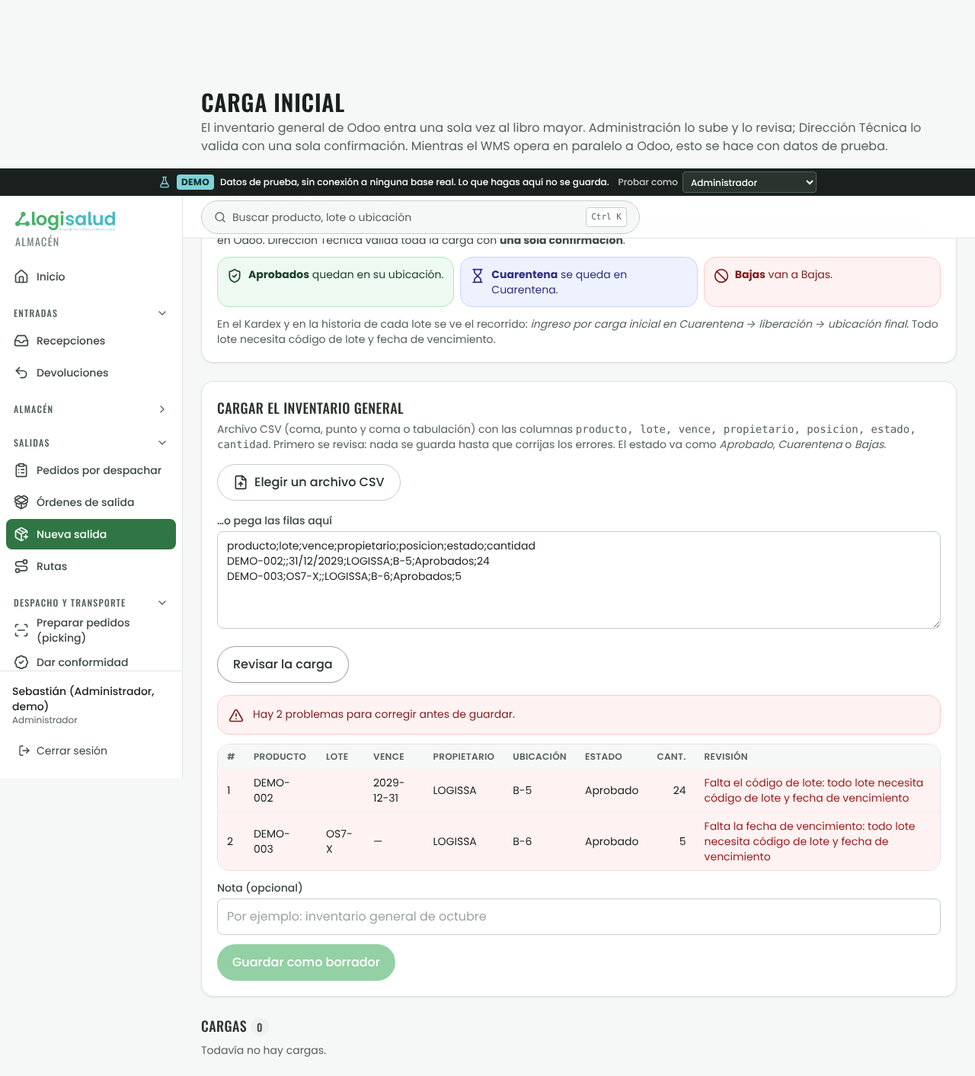
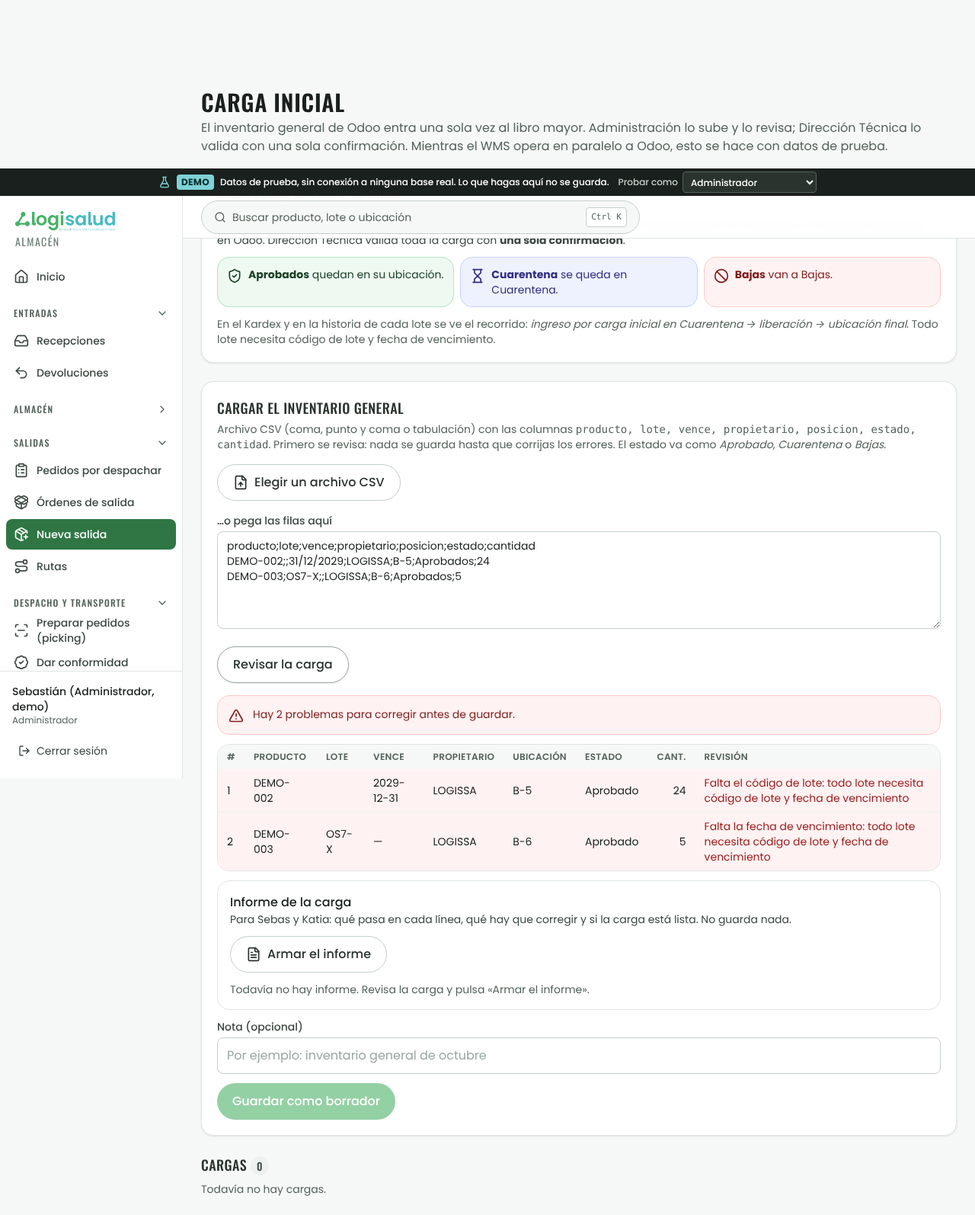
wms(piloto): hojas por rol, criterios Go/No-Go, pendientes de la ventana; paso «Registrar guía emitida», E2E y capturas
Claude-Session: https://claude.ai/code/session_019szn5FvDhUhrzDvpkCY8tq

diff --git a/apps/wms/domain/pasos.ts b/apps/wms/domain/pasos.ts
@@ -69,6 +69,8 @@ export interface ExtrasSalida {
   guiaEnEspera?: boolean
   /** Falta la guía (con la conformidad completa). */
   sinGuia?: boolean
+  /** Piloto (0036): la guía se emite en el panel de Nubefact (o en Odoo) y el WMS solo la registra. Solo la ficha de la orden lo sabe; la lista y «Mis tareas» dicen «emitir». */
+  guiaPanel?: boolean
   /** D-191: la orden ya salió, su guía se anuló y no hay otra vigente: el stock no se toca y falta emitir la guía nueva. */
   faltaGuiaVigente?: boolean
   /** SA-2: orden por cuenta de un cliente (tipo B): no lleva guía del WMS, se registra la GRE que trae el cliente. */
@@ -120,6 +122,7 @@ function siguienteDeSalida(etapa: EtapaSalida, id: string, x: ExtrasSalida): Sig
       if (x.guiaEnEspera) return { texto: 'Consultar si SUNAT ya aceptó la guía: sin eso no hay PDF ni se avisa a Pedidos', responsable: R.documentos, href: `/salidas/${id}`, boton: 'Consultar estado en SUNAT' }
       const sinDoc = etapa !== 'DOCUMENTACION_COMPLETA'
       if (sinDoc && x.tipo === 'CLIENTE') return { texto: 'Registrar la guía de remisión del cliente (su número y el PDF que adjuntó) y completar el paquete documental: el WMS no emite guía en esta orden', responsable: R.documentos, href: `/salidas/${id}`, boton: 'Registrar la GRE del cliente' }
+      if (sinDoc && x.guiaPanel) return { texto: 'Emitir la guía en el panel de Nubefact (o en Odoo), registrarla aquí con su número y completar el paquete documental', responsable: R.documentos, href: `/salidas/${id}`, boton: 'Registrar la guía emitida' }
       if (sinDoc) return { texto: 'Emitir la guía de remisión (con la ruta ya asignada) y completar el paquete documental', responsable: R.documentos, href: `/salidas/${id}`, boton: 'Emitir la guía' }
       return { texto: 'Embalar el pedido en bultos y imprimir las etiquetas', responsable: R.embalaje, href: `/embalaje/${id}`, boton: 'Ir al embalaje' }
     }

diff --git a/apps/wms/components/salidas/detalle-salida.tsx b/apps/wms/components/salidas/detalle-salida.tsx
@@ -61,7 +61,7 @@ export function DetalleSalida({ salida, puedeEditar, puedePreparar, paquete, gui
         <ChipEtapa etapa={salida.etapa} />
       </header>
 
-      <AvancePasos avance={avanceDeSalida(salida.etapa, salida.id, { sinEmbalaje: !salida.requiereEmbalaje, guiaEnEspera: paquete?.guia?.estadoSunat === 'PENDIENTE', faltaGuiaVigente: salida.faltaGuiaVigente, tipo: salida.tipo, destruccion: salida.motivo === 'DESTRUCCION', sinRuta: salida.tipo === 'CLIENTE' ? undefined : !salida.rutaNumero, porRuta: salida.origen === 'MANUAL' && salida.tipo !== 'CLIENTE', vendedor: salida.vendedor, sinPedido: salida.conPedido === false, devolucion: salida.devolucion, devolucionHref: salida.devoluciones?.find((d) => d.movimientoId)?.movimientoId ? `/movimientos/${salida.devoluciones.find((d) => d.movimientoId)!.movimientoId}` : undefined })} roles={roles} />
+      <AvancePasos avance={avanceDeSalida(salida.etapa, salida.id, { sinEmbalaje: !salida.requiereEmbalaje, guiaEnEspera: paquete?.guia?.estadoSunat === 'PENDIENTE' && paquete.guia.origen !== 'PANEL', guiaPanel: guia.datos?.guiaModo === 'PANEL', faltaGuiaVigente: salida.faltaGuiaVigente, tipo: salida.tipo, destruccion: salida.motivo === 'DESTRUCCION', sinRuta: salida.tipo === 'CLIENTE' ? undefined : !salida.rutaNumero, porRuta: salida.origen === 'MANUAL' && salida.tipo !== 'CLIENTE', vendedor: salida.vendedor, sinPedido: salida.conPedido === false, devolucion: salida.devolucion, devolucionHref: salida.devoluciones?.find((d) => d.movimientoId)?.movimientoId ? `/movimientos/${salida.devoluciones.find((d) => d.movimientoId)!.movimientoId}` : undefined })} roles={roles} />
 
       {(salida.origen === 'MANUAL' || salida.creadaDesde === 'BANDEJA') && (
         <section className="rounded-lg border border-gray-200 bg-white p-4" aria-labelledby="h-origen" data-testid="origen-orden">

diff --git a/apps/wms/tests/domain/pasos.test.ts b/apps/wms/tests/domain/pasos.test.ts
@@ -219,3 +219,14 @@ describe('Mis tareas', () => {
     expect(misTareas(['auditoria_lectura'], salidas, ingresos, etiquetas)).toEqual([])
   })
 })
+
+describe('piloto: guía emitida en el panel', () => {
+  it('con la guía en el panel, el paso de documentos dice «registrar» y sigue teniendo responsable y enlace', () => {
+    const a = avanceDeSalida('CONFORME', 'abc', { guiaPanel: true, sinRuta: false })
+    expect(a.siguiente.boton).toBe('Registrar la guía emitida')
+    expect(a.siguiente.texto).toMatch(/panel de Nubefact/)
+    expect(a.siguiente.responsable.roles).toContain('jefe_transporte')
+    expect(a.siguiente.href).toBe('/salidas/abc')
+    expect(avanceDeSalida('CONFORME', 'abc', { sinRuta: false }).siguiente.boton).toBe('Emitir la guía')
+  })
+})

diff --git a/apps/wms/e2e/guia-panel.spec.ts b/apps/wms/e2e/guia-panel.spec.ts
@@ -17,7 +17,10 @@ test.describe('guía emitida en el panel (piloto)', () => {
     await entrarComo(page, 'auxiliar')
     await page.goto(urlOrden)
     await expect(page.getByTestId('linea-picking').first()).toBeVisible()
-    for (let i = 0; i < 10 && (await page.getByTestId('pickeado').count()) > 0; i++) await page.getByTestId('pickeado').first().click()
+    for (let n = await page.getByTestId('pickeado').count(); n > 0; n--) {
+      await page.getByTestId('pickeado').first().click()
+      await expect(page.getByTestId('pickeado')).toHaveCount(n - 1)      // espera a que la pantalla se refresque antes del siguiente clic
+    }
     await expect(page.getByTestId('avance-picking')).toContainText('Picking completo')
 
     await entrarComo(page, 'asistente_dt')

diff --git a/docs/wms/decisiones-pendientes.md b/docs/wms/decisiones-pendientes.md
@@ -209,3 +209,7 @@ Actualizado: 2026-10-14 (Salidas: D-47..D-74; revisión 4: salida tipo B, D-65..
 | D-196 | **El Administrador hace todo lo operativo y de configuración (SB-E, migración 0035; instrucción de Sebas 24-oct: «todo, todo», incluida la firma de actas como Jefe de Almacén).** Revisadas todas las pantallas y acciones. **(a) Firma de actas como Jefe de Almacén:** confirmada (`tiene_rol` y `rolesEfectivos` lo cuentan como Jefe de Almacén desde la 0034); ahora hay prueba en base (`tests/db/sb-e.test.ts`), demo y dominio. No firma como Dirección Técnica. **(b) Productos y maestros:** da de alta y edita productos y sus datos regulatorios. **(c) Lo que antes solo hacían Sandra y Dirección Técnica y ahora hace también el Administrador:** preparar, ajustar, autorizar y anular solicitudes de ingreso; cerrar expedientes; llenar el acta organoléptica; autorizar un retorno; atender las alertas de la asistente; y **gestionar documentos regulatorios** (subir y reemplazar COA, registro sanitario y BPM, crear fabricantes, definir perfiles documentales): la 0034 lo había dejado fuera por exceso de cautela y el pedido original de Sebas lo incluía («documentos»). Subir un documento no decide nada sanitario y queda auditado con su motivo. Usuarios, roles, parámetros, topología, propietarios, rutas, personal y vehículos, parámetros de guía y conductor en documentos ya los podía y hay prueba. **(d) Sigue reservado a Dirección Técnica** (instrucción anterior, no cambia): aprobar (decidir el acta organoléptica, dictamen del cliente), dar de baja (evaluar y autorizar), autorizar ajustes, **validar producto**, antecedentes de calidad y liberar stock del propietario; los triggers siguen impidiendo dárselos. **(e) Validar producto:** como D-37 había quitado la validación aparte, el alta del Administrador **no puede rendir como validación**: el producto que da de alta o edita (si cambia algo) queda **marcado «por validar»** (`producto_regulatorio.por_validar`) y la base **no aprueba lotes de un producto marcado** hasta que Dirección Técnica o su asistente lo valide con `wms.validar_producto` (botón «Validar este producto» en la ficha, aviso en Inicio). Lo que crea o edita la asistente o Dirección Técnica rige de inmediato como siempre. **(f) Notas para que Sebas confirme:** (1) «todo» **no cedió** ninguna decisión sanitaria: si quiere que el Administrador valide productos, es una decisión sanitaria suya y se cambia con una migración; (2) **no se le dio** evaluar una baja (insumo de la decisión de Dirección Técnica), confirmar la carga inicial (es la segunda persona de la regla de dos personas) ni corregir el vencimiento de un lote (sin pantalla; solo Dirección Técnica); (3) se dejó dentro del Administrador «gestionar documentos regulatorios»: si prefiere que RS y BPM sigan solo con Dirección Técnica, se revierte con una migración de una línea. **Invariantes que valen para todos y se probaron:** nunca negativo, Aprobado nunca vuelve a Cuarentena, actas firmadas inmutables, ejecutor distinto de verificador. **Todo auditado:** `producto_creado` (con si nació validado), `producto_validado`, documentos y configuración (`audit_config`). | migración 0035; permisos.ts; tests/db/sb-e.test.ts | Sí | Sebas | 
 | D-197 | **«Por validar» es una marca aparte del estado `PENDIENTE` (SB-E, decisión técnica).** Hay filas viejas de `producto_regulatorio` con estado `PENDIENTE` que nunca se usó (el alta de Sandra y de Katia fija `VALIDADO` desde la 0006); bloquear aprobaciones por ese estado habría frenado productos reales. Por eso la 0035 suma `por_validar boolean default false`, que solo prende el Administrador (alta o edición) y apaga `validar_producto`. `Regulatorio.estadoValidacion` en la app sale de esa marca (`PENDIENTE`) y `VALIDADO` si no hay dato (la demo ya sembrada no cambia). Reversible. | migración 0035 |
 | D-198 | **Pendientes que deja SB-E.** (1) Confirmación por escrito de la contadora sobre el conductor distinto en la guía (D-160, recomendación). (2) Sebas confirma las tres notas de D-196 (f). (3) Temperatura en stand-by (D-174, D-112 b): sin cambios hasta que Sebas lo reactive. |
+
+| PIL-1 | **La guía del piloto se emite en el panel y el WMS solo la registra (migración 0036).** Decisión de Sebas (2026-10-24). Parámetro `guia_modo` = `PANEL` durante el piloto (la migración lo siembra así; sin parámetro, `WMS`). Origen propio `PANEL` en `guias_remision`; el número no se repite **ni con una guía anulada**; estados admitidos: aceptada o sin respuesta (una rechazada se corrige en el panel y se registra la buena). Una guía `PANEL` no se actualiza con `actualizar_estado_guia`: si algo cambia, se anula con motivo y se registra la correcta. Decisión técnica reversible. **Pendiente (Sebas / contadora):** que los números de la serie TTT1 emitidos en el panel no los vuelva a usar el WMS al volver a `WMS`; baja de la guía ante SUNAT (sigue en el panel). |
+| PIL-2 | **Una guía `PANEL` con estado «sin respuesta» deja seguir a «listo para carga».** `listo_para_carga` solo exige la aceptación de SUNAT a las guías de origen `NUBEFACT`; no se cambió. Si Sebas quiere exigir «aceptada» también para `PANEL`, se agrega en una migración aparte. **Pendiente: Sebas.** |
+| PIL-3 | **Umbrales del Go/No-Go** (`docs/wms/piloto/go-no-go.md`): propuestos, **a confirmar por Sebas**. |

diff --git a/docs/wms/piloto/go-no-go.md b/docs/wms/piloto/go-no-go.md
@@ -1,0 +1,51 @@
+# Piloto «como real» · Criterios Go / No-Go
+
+**Para decidir dos cosas:** (a) **entrar al piloto en noviembre** y (b) **pasar a producción en diciembre**.
+**Todos los umbrales son una propuesta: «a confirmar por Sebas».** Odoo es el sistema oficial durante el piloto; el stock del WMS no tiene que cuadrar con el de Odoo.
+Cómo se mide: «Reportes», «Auditoría», `verificar_saldos()` (consulta de la base que corre el equipo técnico) y la revisión diaria del propio WMS.
+
+## (a) Entrar al piloto en noviembre — decide **Sebas**, con Katia y Charlie
+
+| # | Criterio (umbral propuesto, a confirmar por Sebas) | Cómo se mide | Quién lo confirma |
+|---|---|---|---|
+| A1 | La **carga de ensayo** sale «Lista para cargar» (cero líneas con error) en el Informe de la carga | Control → Carga inicial → «Armar el informe» | Katia |
+| A2 | `verificar_saldos()` **sin filas** y **cero saldos negativos** tras la carga de ensayo | Consulta del equipo técnico | Equipo técnico |
+| A3 | Las **8 hojas por rol** entregadas y cada persona hizo su recorrido de prueba **una vez** | `docs/wms/piloto/hojas-por-rol/` | Charlie y Roberto |
+| A4 | El **respaldo diario** de la base corre en verde **desde ya** y se probó una **restauración** | Registro del respaldo | Equipo técnico |
+| A5 | La **contadora confirmó** lo pendiente que afecta al piloto (baja de guías ante SUNAT, serie y correlativo de guías del panel) | Respuesta por escrito | Sebas |
+| A6 | Definida **la ruta o el día fijo** de salidas del piloto y quién emite la guía en el panel | Acta corta de acuerdo | Roberto y Sebas |
+| A7 | **Plan de archivo y recreación** de la base (qué se archiva, cómo, con respaldo) escrito y aprobado | Documento del plan | Sebas |
+| A8 | `guia_modo = PANEL` verificado en la base del piloto | Consulta del equipo técnico | Equipo técnico |
+
+**Go:** los 8 cumplidos. **No-Go:** cualquiera sin cumplir.
+**Si es No-Go:** el piloto no arranca ese día. El dueño del criterio dice qué falta y para cuándo; se vuelve a revisar el siguiente lunes. Nada se carga en la base real mientras tanto.
+
+## (b) Pasar a producción en diciembre — decide **Sebas**, con Katia, Charlie y Roberto
+
+Se evalúa al **terminar al menos 2 semanas** de piloto.
+
+| # | Criterio (umbral propuesto, a confirmar por Sebas) | Cómo se mide | Quién lo confirma |
+|---|---|---|---|
+| B1 | **Cero saldos negativos** durante todo el piloto | `verificar_saldos()` cada día | Equipo técnico |
+| B2 | `verificar_saldos()` **sin filas** los últimos **10 días hábiles** seguidos | Registro diario | Equipo técnico |
+| B3 | **Actas sin bloqueo:** ninguna acta o solicitud trabada más de **2 días hábiles** | Reportes → Recepciones | Sandra |
+| B4 | **Entradas completas el mismo día:** al menos **90 %** (llegan, se reciben y se firma el acta el mismo día) | Reportes → Recepciones | Charlie |
+| B5 | **Incidencias abiertas:** cero críticas y no más de **5** abiertas en total, todas con responsable y fecha | Lista de incidencias del piloto | Sebas |
+| B6 | **Revisión diaria cerrada** al menos **90 %** de los días hábiles del piloto | Almacén → Revisión diaria | Charlie |
+| B7 | **Exactitud de conteos** de al menos **98 %** en los conteos de la semana | Reportes → Exactitud del inventario | Katia |
+| B8 | **Salidas del piloto:** 100 % con número de pedido, guía registrada y salida confirmada; cero guías repetidas | Órdenes de salida y Auditoría | Roberto |
+| B9 | **Respaldo diario en verde ≥ 14 días seguidos** y una **restauración probada** en el período | Registro del respaldo y acta de la prueba | Equipo técnico |
+| B10 | La **contadora confirmó** lo pendiente (baja de guías ante SUNAT, retenciones y lo que Contabilidad deba validar) | Respuesta por escrito | Sebas |
+| B11 | **Plan de archivo y recreación** aprobado: la información del piloto se archiva y la base del WMS se recrea con la **carga definitiva**, con respaldo previo | Plan firmado por Sebas | Sebas |
+| B12 | **Carga definitiva** probada en un ensayo: informe «Lista para cargar» con los datos de cierre del piloto | Informe de la carga | Katia |
+
+**Go:** B1 a B12 cumplidos. Se puede pasar a producción con **B5, B6 o B7 en el umbral siguiente** solo si Sebas lo acepta por escrito: B5 hasta 8 abiertas, B6 hasta 80 %, B7 hasta 95 %.
+**Si es No-Go:**
+1. Se anota qué criterio falló y quién es su dueño.
+2. Se **extiende el piloto una semana** y se vuelve a medir solo lo que falló.
+3. Si falla de nuevo un criterio de saldos (B1, B2) o de respaldo (B9), se **detiene la fecha de producción** hasta corregir la causa. Nunca se compensa con una carga manual.
+4. La recreación de la base **no se hace** sin la aprobación de Sebas y el respaldo hecho el mismo día.
+
+## Quién decide qué
+- **Sebas** decide el Go o No-Go final de (a) y de (b), y acepta cualquier excepción por escrito.
+- **Katia** confirma lo sanitario y el informe de la carga; **Charlie** y **Roberto**, lo operativo; **Sandra**, las actas; el **equipo técnico**, saldos y respaldos.

diff --git a/apps/wms/CLAUDE.md b/apps/wms/CLAUDE.md
@@ -111,13 +111,14 @@ Mientras tanto, verificar con Playwright directo.
   Usa por defecto los datos de prueba de Odoo (`docs/wms/demo-odoo.md`); `WMS_DEMO_DATOS=sintetico` los cambia por los sintéticos (lo fijan vitest, Playwright y `e2e-por-viewport.sh`).
   En Vercel solo se activa en Preview con `WMS_DEMO=1`; en producción la app **se niega a arrancar** si hay una bandera puesta.
 - **Órdenes de ejemplo (SA-1):** en demo/Preview la demo siembra 24 órdenes de ejemplo en cada etapa y tipo (lista en `domain/ejemplos.ts`). `WMS_DEMO_EJEMPLOS=0` las apaga (vitest, Playwright y `e2e-por-viewport.sh` lo hacen para la suite de siempre); `WMS_DEMO_EJEMPLOS=vacio` deja la demo sin ninguna salida. Los E2E de los ejemplos y del vacío corren en servidores propios (ver `e2e-por-viewport.sh`).
+- **Guía del piloto (0036):** el parámetro `guia_modo` (`WMS` | `PANEL`) decide si la orden pide «Emitir guía» (Nubefact) o «Registrar guía emitida» (se emitió en el panel). En la demo, `WMS_DEMO_GUIA_MODO=PANEL` lo enciende (por defecto `WMS`); `e2e/guia-panel.spec.ts` corre en su propio servidor (puerto +3). Hojas por rol, Go/No-Go y pendientes: `docs/wms/piloto/`.
 - **PDF en la Preview (D-177):** `WMS_PREVIEW_URL=https://… npm run test:preview-pdf --workspace erp-logisalud-wms` abre cada PDF en una URL desplegada (la CI lo corre sola al terminar el despliegue; secreto opcional `VERCEL_AUTOMATION_BYPASS_SECRET`).
 - **Pruebas de base de datos:** `npm run test:db:wms` levanta el Postgres 16 local (`scripts/db-local.sh`; en CI corre en Postgres 17, la versión de producción) y corre las migraciones
   contra un schema `auth` simulado. No cubre PostgREST, GoTrue ni Storage (docs/wms/gate-0.md §G.1).
 - **E2E en 4 viewports + capturas:** `npm run build:wms` y luego
   `PLAYWRIGHT_CHROMIUM_PATH=/opt/pw-browsers/chromium apps/wms/scripts/e2e-por-viewport.sh` (reinicia el servidor entre viewports).
   Las capturas quedan en `docs/wms/screenshots/<pantalla>/<viewport>.png`.
-- Migraciones: `apps/wms/supabase/migrations/` (0001–0009 y 0011–0035; el 0010 está reservado; por pieza: 0028 SA-2, 0029 SA-3, 0030 SA-6, 0031 SB-A rutas y conductor, 0032 SB-B proveedor/guías/muestras, 0033 SB-C dictamen/baja/producto nuevo/temperatura, 0034 SB-D baja de guía/motivos/Administrador, 0035 SB-E Administrador todo lo operativo y productos «por validar»), re-ejecutables, **se aplican a mano**; seed de topología generado (y `seeds/0002_transporte_inicial.sql`, escrito a mano: conductores y vehículo, después de la 0031) con
+- Migraciones: `apps/wms/supabase/migrations/` (0001–0009 y 0011–0036; el 0010 está reservado; por pieza: 0028 SA-2, 0029 SA-3, 0030 SA-6, 0031 SB-A rutas y conductor, 0032 SB-B proveedor/guías/muestras, 0033 SB-C dictamen/baja/producto nuevo/temperatura, 0034 SB-D baja de guía/motivos/Administrador, 0035 SB-E Administrador todo lo operativo y productos «por validar», 0036 piloto: guía emitida en el panel, `guia_modo`), re-ejecutables, **se aplican a mano**; seed de topología generado (y `seeds/0002_transporte_inicial.sql`, escrito a mano: conductores y vehículo, después de la 0031) con
   `npm run seed:topologia --workspace erp-logisalud-wms`. Ver `docs/wms/aplicar-migraciones.md`.
 - **Nubefact en la Preview (SB-B, D-167):** con `WMS_DEMO=1` en Vercel, `NUBEFACT_RUTA` + `NUBEFACT_TOKEN` (solo Preview) hacen que la demo use la cuenta DEMO de Nubefact; sin ellas, el simulador. Nunca imprimas ni registres sus valores. Producción rechaza `NUBEFACT_RUTA`. La serie de guías es TTT1 y no se emite una guía real sin correlativo inicial confirmado (`docs/wms/nubefact.md`).
 - Diseño: `PRODUCT.md` y `DESIGN.md` de esta carpeta; ADR en `docs/wms/adr/`.

diff --git a/docs/wms/progreso.md b/docs/wms/progreso.md
@@ -300,3 +300,7 @@ Decisiones D-190 a D-195 (la 0033 es de SB-C). (2) Motivos: ya parametrizados po
 Decisiones D-210 y D-211. La pantalla dice con claridad si la guía va a «Simulador», «Nubefact (modo prueba)» o «Nubefact (producción)», y «Probar conexión» se ve siempre. La verificación real contra la Preview no se pudo accionar desde el entorno del agente (proxy bloquea el dominio; solo GET): se dejó el spec `e2e-preview/nubefact-preview.spec.ts` para correrla. Pendiente: textos reales de error y `anulado` de la cuenta DEMO.
 ## SB-E — el Administrador hace todo lo operativo, conductor en documentos y temperatura en stand-by (rama `feat/wms-sb-e`, migración 0035, sin aplicar)
 Decisiones D-196 a D-198 (D-195, D-160 y D-174 actualizadas). **Administrador:** confirmada y probada (base, demo y dominio) la firma de actas como Jefe de Almacén; ahora da de alta y edita productos, prepara/autoriza/anula solicitudes de ingreso, cierra expedientes, llena el acta organoléptica, autoriza retornos, atiende las alertas de la asistente y gestiona documentos regulatorios. **Sigue reservado a Dirección Técnica:** aprobar, dar de baja, autorizar ajustes y validar producto. El producto que da de alta o edita el Administrador queda «por validar» (`por_validar`, D-197) y la base no aprueba sus lotes hasta que DT lo valide (`validar_producto`, botón en la ficha, aviso en Inicio). Una prueba con clasificación exhaustiva de las acciones obliga a decidir toda acción nueva para el Administrador. **Conductor en documentos (D-160):** se mantiene el parámetro; se registra como RECOMENDACIÓN obtener la confirmación escrita de la contadora (SUNAT, conductor distinto, cuánto tiempo); el aviso de pantalla lo dice. **Temperatura (D-174, D-112 b):** en stand-by por indicación de Sebas 24-oct; nada nuevo, lo construido no cambia. Pruebas nuevas: `tests/db/sb-e.test.ts` (11), `tests/services/demo-administrador.test.ts` (4), ampliado `tests/domain/permisos.test.ts`.
+
+## Piloto «como real» — guía emitida en el panel e informe de la carga de ensayo (rama `feat/wms-piloto`, migración 0036, sin aplicar)
+Decisión de Sebas (2026-10-24): producción en diciembre; en noviembre, piloto de al menos 2 semanas con Odoo como sistema oficial. **Alcance congelado.** (1) **Guía emitida en el panel:** parámetro `guia_modo` (`WMS` | `PANEL`; la 0036 lo siembra en `PANEL`; sin el parámetro, la aplicación se comporta como siempre). Con `PANEL` la orden pide **Registrar guía emitida** (número TTT1-NNNNNNNN, fecha de emisión, estado aceptada o sin respuesta, enlace y nota) en lugar de «Emitir guía»; `wms.registrar_guia_panel` valida el formato, no repite número ni con una guía anulada, deja `GUIA_EMITIDA` para Pedidos y audita; origen propio `PANEL`; lo que sigue (embalaje, carga, salida confirmada) es idéntico. `registrar_gre` queda como contingencia. (2) **Informe de la carga de ensayo** (`domain/informe-carga.ts`): por línea qué pasa y qué corregir, totales (lista / con advertencia / con error), veredicto, pantalla en Carga inicial y descarga CSV/Excel (exceljs); no cambia la confirmación. (3) Hojas por rol, criterios Go/No-Go y pendientes de la ventana en `docs/wms/piloto/`.
+**Pruebas:** DB `tests/db/guia-panel.test.ts` (5) y `aislamiento`; dominio `guia-electronica`, `informe-carga`, `pasos`; demo `demo-guia-electronica` e `informe-carga`; componentes `guia-panel` e `informe-carga`; E2E `e2e/guia-panel.spec.ts` (servidor propio, puerto +3) y pasos nuevos en `e2e/zz-os7.spec.ts`.

diff --git a/docs/wms/piloto/README.md b/docs/wms/piloto/README.md
@@ -1,0 +1,31 @@
+# Piloto «como real» del WMS · noviembre
+
+**Decisión de Sebas (2026-10-24).** Producción en diciembre. En noviembre corre un **piloto «como real» de al menos 2 semanas con Odoo como sistema oficial**.
+
+## Qué entra al piloto
+- **Como real:** entradas, calidad, movimientos, conteos y revisión diaria.
+- **Salidas:** solo **una ruta o un día fijo por semana, con número de pedido**. La guía se emite en el panel de Nubefact (o en Odoo) y el WMS solo la **registra** (`guia_modo = PANEL`).
+- **Sigue solo en Odoo:** stock oficial, facturación, compras, toma y validación de pedidos y las demás salidas.
+- El stock del piloto **no tiene que cuadrar** con Odoo. Antes de producción, la información del piloto se **archiva** y la base del WMS se **recrea** con una carga definitiva (destructivo: lo aprueba Sebas, con respaldo).
+- **Fuera del alcance (congelado):** comparador contra Odoo, importación de pedidos, prueba directa de Nubefact, almacén compartido de la demo.
+
+## Qué hay aquí
+- `hojas-por-rol/`: una hoja corta por rol (Dirección Técnica, Asistente de DT, Jefe de Almacén, Jefe de Transporte, Auxiliar, Conductor, Auditoría, Administrador).
+- `go-no-go.md`: criterios para entrar al piloto y para pasar a producción (umbrales a confirmar por Sebas).
+- En la app: **Salidas → Órdenes de salida → Registrar guía emitida**, e **Informe de la carga** en **Control → Carga inicial**.
+
+## Pendientes de la ventana (qué falta para el piloto)
+Marcados «Sebas» cuando necesitan su decisión. Cada uno tiene dueño.
+
+1. **Aprobar los umbrales del Go/No-Go** (`go-no-go.md`). Dueño: **Sebas**.
+2. **Aplicar la migración 0036** en la base del piloto (a mano, con respaldo; `docs/wms/aplicar-migraciones.md`) y verificar `guia_modo = PANEL`. Dueño: equipo técnico, con aprobación de **Sebas**.
+3. **Elegir la ruta o el día fijo** de salidas del piloto y quién registra la guía. Dueño: **Roberto** y **Sebas**.
+4. **Confirmar con la contadora:** serie y correlativo de las guías que se emiten en el panel (y que el WMS no vuelva a usar esos números), y la baja de guías ante SUNAT. Dueño: **Sebas**.
+5. **Base del piloto:** crear o designar la base, con RLS, el bucket privado `wms-documentos` y el respaldo diario en verde. Dueño: equipo técnico.
+6. **Usuarios y roles reales** (Katia, Sandra, Charlie, Roberto, auxiliares, Auditoría, Administrador). Hoy el conductor no tiene pantallas. Dueño: Administrador.
+7. **Carga de ensayo:** armar el archivo con datos reales, pasar el **Informe de la carga**, corregir y volver a subir hasta «Lista para cargar». Dueño: **Katia** y el Administrador.
+8. **Registros sanitarios y COA** de los productos del piloto, cargados y vigentes. Dueño: Katia y Sandra.
+9. **Capacitación:** entregar las hojas por rol y hacer un recorrido de prueba con cada persona. Dueño: Charlie y Roberto.
+10. **Plan de archivo y recreación** de la base (qué se archiva, dónde, con qué respaldo). Dueño: equipo técnico; lo aprueba **Sebas**.
+11. **Registro de incidencias** del piloto (una lista simple con responsable y fecha) y el día de revisión semanal. Dueño: Charlie.
+12. **Respaldo con restauración probada** antes de la primera semana. Dueño: equipo técnico.

diff --git a/docs/wms/aplicar-migraciones.md b/docs/wms/aplicar-migraciones.md
@@ -88,12 +88,14 @@ Storage, RLS real de Compras (`acceso_abierto_temporal`).
 (3) Carga inicial: `validar_carga_inicial` (todo lote con código y vencimiento; Aprobado exige registro sanitario vigente), `crear_carga_inicial`, `confirmar_carga_inicial` (**una sola confirmación de Dirección Técnica**; en una transacción deja ingreso en Cuarentena → liberación o baja → ubicación final) y `decidir_estado_carga_inicial` (queda solo para rechazar con un mensaje). **Redefine `postear_movimiento` parchando su cuerpo vigente por reemplazo de texto** y se detiene con un mensaje claro si ese cuerpo cambió.
 **Antes de aplicarla en producción:** (a) confirmar que existe al menos una ubicación de Cuarentena por propietario que va a cargar; (b) crear en Storage el bucket que ya usan los demás adjuntos (no hace falta uno nuevo); (c) verificar que la lista de funciones expuestas a `authenticated` coincide con la de `tests/db/aislamiento.test.ts` (suma las 8 funciones públicas de esta migración); (d) la columna nueva `cargas_iniciales_lineas.estado` se valida solo para filas nuevas (`NOT VALID`).
 
+**0036** (Piloto «como real», PIL-1; requiere la 0034 por `_guia_de_reemplazo_posible`): parámetro `guia_modo` (`PANEL` sembrado; solo admite `WMS` o `PANEL`), origen `PANEL` en `guias_remision` (se amplía el check; las filas viejas lo cumplen), columna `fecha_emision`, `_guia_inmutable` con esa columna y `wms.registrar_guia_panel(...)` (permiso `registrar_documentacion`, solo con `guia_modo = PANEL`; no repite número ni con una guía anulada; deja el aviso `GUIA_EMITIDA` para Pedidos y audita). Redefine `trg_validar_parametro` (la de la 0034 más `guia_modo`). No toca datos existentes; re-ejecutable. Si se aplica con el piloto en marcha, `guia_modo` queda en `PANEL`: para que el WMS siga emitiendo con Nubefact, cambiarlo a `WMS` después de aplicarla.
+
 ## Ensayo de la ventana en Postgres 17 (2026-10-24)
 
-`apps/wms/scripts/ensayo-migraciones.sh <url-de-un-Postgres-17-desechable>` aplica la cadena **0001 a 0035** sobre una base nueva
+`apps/wms/scripts/ensayo-migraciones.sh <url-de-un-Postgres-17-desechable>` aplica la cadena **0001 a 0036** sobre una base nueva
 (cada migración dos veces seguidas, para probar que son re-ejecutables), carga las semillas de topología y transporte y comprueba:
 `verificar_saldos()` sin filas, ninguna función de `wms` con EXECUTE para PUBLIC y RLS en todas las tablas.
-Resultado del ensayo local en **Postgres 17.5**: 34 migraciones × 2 aplicaciones sin errores en ~6 s; 98 tablas de `wms` con RLS;
-176 funciones expuestas a `authenticated`, ninguna a PUBLIC; y las **638 pruebas de `tests/db` pasan** en esa versión.
+Resultado del ensayo local en **Postgres 17.5**: 35 migraciones × 2 aplicaciones sin errores en ~5 s (con la 0036); 98 tablas de `wms` con RLS;
+177 funciones expuestas a `authenticated`, ninguna a PUBLIC; y las **638 pruebas de `tests/db` pasan** en esa versión.
 Lo que el ensayo **no** cubre: PostgREST, GoTrue, Storage, la RLS real de Compras (las pruebas usan stubs; ver `gate-0.md` §G.1).
 Repetir toda la cadena desde 0001 no se prueba a propósito: la 0005 retira objetos de la 0004 y ese caso no existe.

diff --git a/docs/wms/piloto/hojas-por-rol/direccion-tecnica.md b/docs/wms/piloto/hojas-por-rol/direccion-tecnica.md
@@ -1,0 +1,25 @@
+# Hoja del piloto · Dirección Técnica
+
+**Quién:** Katia. **Entras por:** `/wms/login` → menú lateral. **Piloto:** Odoo sigue siendo el sistema oficial; el WMS se usa como real en entradas, calidad, movimientos, conteos y revisión diaria, y en las salidas de **una ruta o un día fijo por semana**.
+
+## Qué hago
+1. Cada mañana abro **Inicio → Mis tareas** y **Control → Alertas**. Lo que toca a Dirección Técnica sale ahí con su botón.
+2. **Entradas → Recepciones:** en la solicitud «Por autorizar» pulso **Autorizar la solicitud**. Al final de la recepción reviso el acta y la firmo (**Firmar**).
+3. **Control → Calidad:** abro el acta organoléptica y decido: **Aprobar y firmar**, **Enviar a Bajas/Rechazados y firmar**, o **Dejar el acta observada** (con su motivo).
+4. **Almacén → Conteos:** cuando hay una diferencia, mi decisión es **Autorizar** o **Rechazar** el ajuste que propuso el Jefe de Almacén. Sin mi decisión el stock no se toca.
+5. **Control → Documentos regulatorios:** mantengo vigentes los registros sanitarios; un lote sin registro vigente no se puede dejar Aprobado.
+6. **Almacén → Dar de baja:** autorizo las bajas que me piden.
+7. **Salidas → Órdenes de salida:** miro cómo avanzan las salidas del piloto («Dónde va y qué sigue» en cada orden). Puedo registrar la guía si hace falta.
+8. **Control → Carga inicial:** solo confirmo una carga cuando el **Informe de la carga** dice «Lista para cargar».
+
+## Qué NO hago
+- No emito guías en el WMS: en el piloto se emiten en el panel de Nubefact (o en Odoo) y el WMS solo las registra.
+- No muevo stock a mano ni corrijo un saldo por fuera de un conteo o una baja.
+- No confirmo una carga con el informe en «No lista para cargar».
+
+## A quién aviso
+- Algo trabado en una recepción o acta: **Sandra** (Asistente de DT) y **Charlie** (Jefe de Almacén).
+- Un saldo que no cuadra o una alerta que no se puede resolver: **Sebas**.
+
+## Esto sigue en Odoo
+Stock oficial y su cuadre, facturación, compras y órdenes de compra, y la toma y validación de pedidos de venta. El stock del piloto no tiene que cuadrar con Odoo.

diff --git a/docs/wms/piloto/hojas-por-rol/jefe-almacen.md b/docs/wms/piloto/hojas-por-rol/jefe-almacen.md
@@ -1,0 +1,24 @@
+# Hoja del piloto · Jefe de Almacén
+
+**Quién:** Charlie. **Entras por:** `/wms/login` → menú lateral. **Piloto:** Odoo sigue siendo el sistema oficial; en el WMS trabajas como real las entradas, los movimientos, los conteos y la revisión diaria, y las salidas de **una ruta o un día fijo por semana**.
+
+## Qué hago
+1. **Entradas → Recepciones:** cuando llega la mercadería, abro la solicitud autorizada y pulso **Empezar la recepción**. Anoto los datos (**Guardar datos**), verifico cada línea (**Coincide** o **Hay una diferencia**) y genero el acta (**Generar el acta de recepción**). Firmo con mi usuario (**Firmar**).
+2. **Almacén → Movimientos → Registrar un movimiento** (pantalla «Mover»): elijo el origen, marco las líneas, elijo un solo destino y pulso **Revisar y ejecutar**. Otra persona verifica el movimiento.
+3. **Almacén → Conteos:** programo los conteos de la semana, registro lo contado (**Registrar mi conteo**) y, si hay diferencia, **Proponer el ajuste**. Al terminar, **Cerrar el conteo**.
+4. **Almacén → Revisión diaria:** **Empezar la revisión de hoy**, marco cada punto (**Sin problemas** o **Anotar un pendiente**) y **Cerrar la revisión**.
+5. **Salidas del piloto:** con **Nueva salida** creo la orden (tipo A, con el número de pedido). En **Despacho y transporte** hago **Preparar pedidos (picking)**, **Embalar** y **Cargar la unidad**.
+6. **Almacén → Dar de baja:** solicito la baja de lo vencido o dañado.
+
+## Qué NO hago
+- No apruebo lotes ni autorizo ajustes o bajas: lo decide Dirección Técnica.
+- No verifico un movimiento que yo ejecuté.
+- No emito guías en el WMS: se emiten en el panel de Nubefact (o en Odoo).
+
+## A quién aviso
+- Diferencia en una recepción o un acta trabada: **Sandra** y **Katia**.
+- Un saldo negativo o un movimiento que no deja ejecutar: **Sebas**.
+- Problema en la carga o en la ruta del día: **Roberto**.
+
+## Esto sigue en Odoo
+Stock oficial, facturación, compras y órdenes de compra, toma y validación de pedidos de venta, y las salidas que no son de la ruta o del día del piloto.
